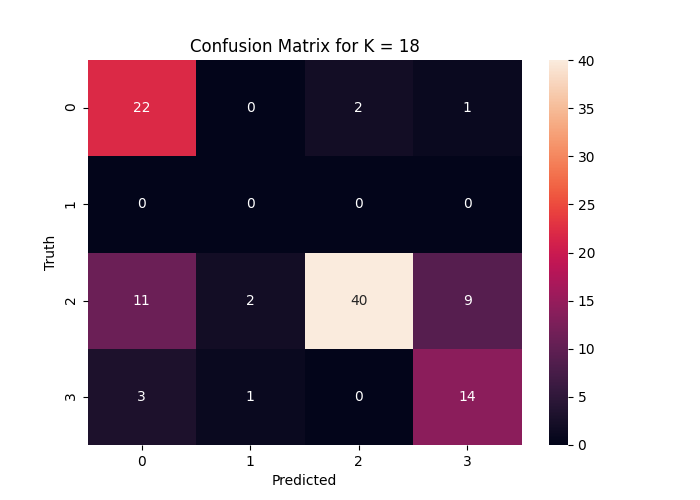
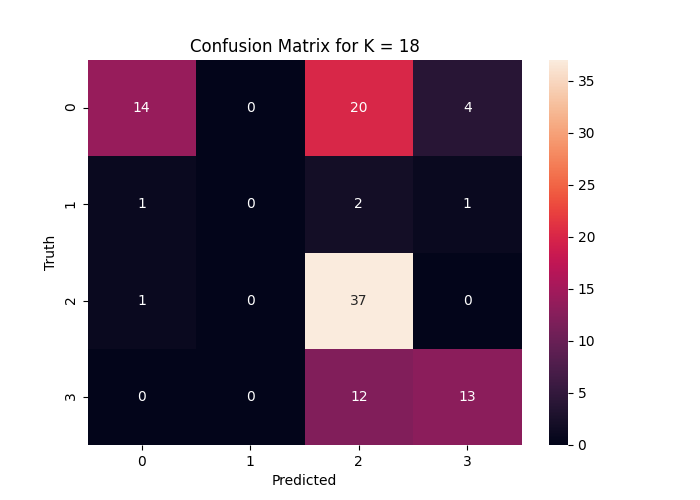
Generalizing KNN code
Previous implementation of KNN assumed that there were only ever 4 features.

Adapted to work with data with arbitrary number of features.

diff --git a/KNN.py b/KNN.py
@@ -12,86 +12,64 @@ from sklearn.neighbors import KNeighborsClassifier
 from sklearn.metrics import confusion_matrix
 from sklearn.metrics import matthews_corrcoef
 import sensitivitySpecificity
-####IMPORTING CSV####
+
+
+# ###IMPORTING CSV####
 gdata = pd.read_csv("data/g_data_features.csv")
-####FORMATING DATA TO BE PASSED INTO THE MODEL####
-X = gdata.iloc[:,1:455].values ##LABELS
-y = gdata.iloc[:,0].values 
+num_classes = 4
+# ###FORMATING DATA TO BE PASSED INTO THE MODEL####
+X = gdata.iloc[:, 1:]  # features
+y = gdata.iloc[:, 0]  # labels
 X_train, X_test, y_train, y_test = train_test_split(X, y, test_size=0.20)
 kdata = []
 accuracy = []
 MCCfinal = []
 spec = []
 sen = []
-#####LOOP RUNS THROUGH K VALUES 1 TO 18####
+
+# ####LOOP RUNS THROUGH K VALUES 1 TO 18####
 for k in range(18):
-    A0 = 0
-    A1 = 0
-    A2 = 0
-    A3 = 0   
-    B0 = 0
-    B1 = 0
-    B2 = 0
-    B3 = 0    
-    C0 = 0
-    C1 = 0
-    C2 = 0
-    C3 = 0   
-    D0 = 0
-    D1 = 0
-    D2 = 0
-    D3 = 0 
+    cm_total = np.zeros([num_classes, num_classes])
     loops = 50  
     MCC = 0
     score = 0
     for loop in range(loops):
-####SECTION ALLOWS FOR THE KNN MODEL TO BE FORMED AS WELL AS KEEP TRACK OF DATA FOR THE LINE GRAPH###    
+        # ###SECTION ALLOWS FOR THE KNN MODEL TO BE FORMED AS WELL AS KEEP TRACK OF DATA FOR THE LINE GRAPH###    
         classifier = KNeighborsClassifier(n_neighbors=k+1)
         classifier.fit(X_train, y_train)
         y_pred = classifier.predict(X_test)
         cm = confusion_matrix(y_test, y_pred)
-        score = score + (classifier.score(X_test,y_test))*100
-        MCC = MCC + matthews_corrcoef(y_test,y_pred)      
-####KEEPS TRACK OF ALL CELLS IN CONFUSION MATRIX IN ORDER TO CREATE AVERAGE####
-        A0 = cm[0][0] + A0
-        A1 = cm[0][1] + A1
-        A2 = cm[0][2] + A2
-        A3 = cm[0][3] + A3
-        B0 = cm[1][0] + B0
-        B1 = cm[1][1] + B1
-        B2 = cm[1][2] + B2
-        B3 = cm[1][3] + B3
-        C0 = cm[2][0] + C0
-        C1 = cm[2][1] + C1
-        C2 = cm[2][2] + C2
-        C3 = cm[2][3] + C3
-        D0 = cm[3][0] + D0
-        D1 = cm[3][1] + D1
-        D2 = cm[3][2] + D2
-        D3 = cm[3][3] + D3
-####PRINTING THE CONFUSION MATRIX####
-    cm =[[A0/loops,B0/loops,C0/loops,D0/loops],[A1/loops,B1/loops,C1/loops,D1/loops],[A2/loops,B2/loops,C2/loops,D2/loops],[A3/loops,B3/loops,C3/loops,D3/loops]]
-    plt.figure(figsize=(7,5))
-    sn.heatmap(cm,annot=True)
+        score = score + (classifier.score(X_test, y_test))*100
+        MCC = MCC + matthews_corrcoef(y_test, y_pred)      
+        # ###KEEPS TRACK OF ALL CELLS IN CONFUSION MATRIX IN ORDER TO CREATE AVERAGE####
+        cm_total += cm
+    
+    # ###PRINTING THE CONFUSION MATRIX####
+    cm_average = cm_total / loops
+    plt.figure(figsize=(7, 5))
+    sn.heatmap(cm_average, annot=True)
     plt.title("Confusion Matrix for K = " + str(k+1))
     plt.xlabel('Predicted')
     plt.ylabel('Truth')
     plt.savefig("KNNgraphs\Confusionmatrix\CMK="+str(k+1)+".png")
     plt.clf()
-####SECTION RECORDS RESULTS OF EACH K####
+    
+    # ###SECTION RECORDS RESULTS OF EACH K####
     kdata.append(k+1)
     accuracy.append(score/loops)
     MCCfinal.append(MCC/loops)
-    print("K "+str(k+1)+"................DONE"+str(sensitivitySpecificity.printSpecifictySensitivity(cm)))
-####SECTION PRINTS AVERAGES OF THE 50 TESTS####
-c= 0
+    print("K "+str(k+1)+"................DONE"+str(
+        sensitivitySpecificity.printSpecifictySensitivity(cm)))
+
+# ###SECTION PRINTS AVERAGES OF THE 50 TESTS####
+c = 0
 for k in kdata:
-    print("K=",k,"Accuracy:",accuracy[c],"MCC:",MCCfinal[c])
+    print("K=", k, "Accuracy:", accuracy[c], "MCC:", MCCfinal[c])
     c = c+1
-####LINE GRAPH####
-plt.plot(kdata,accuracy)
+
+# ###LINE GRAPH####
+plt.plot(kdata, accuracy)
 plt.title("Accuracy's relationship to K")
 plt.xlabel("K")
 plt.ylabel("Accuracy")
 plt.savefig(fname="KNNgraphs\Linegraph.png")
-    
